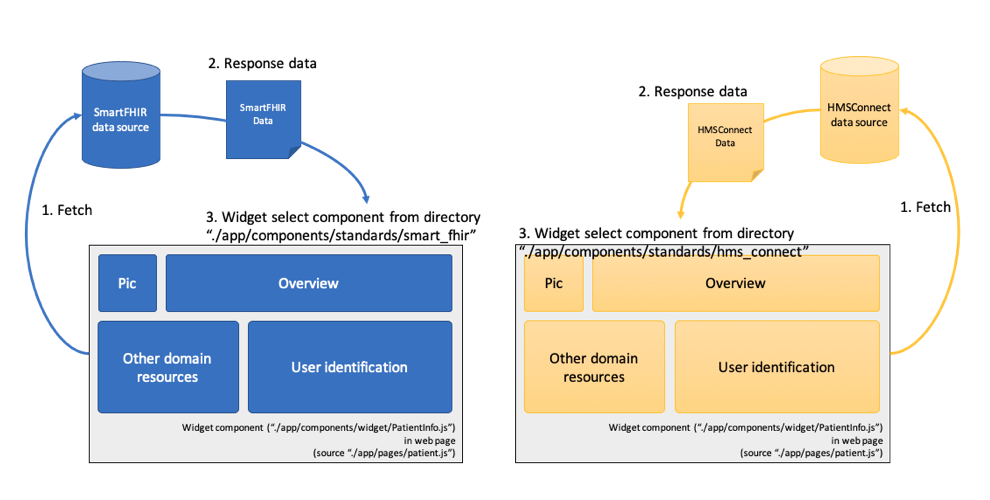
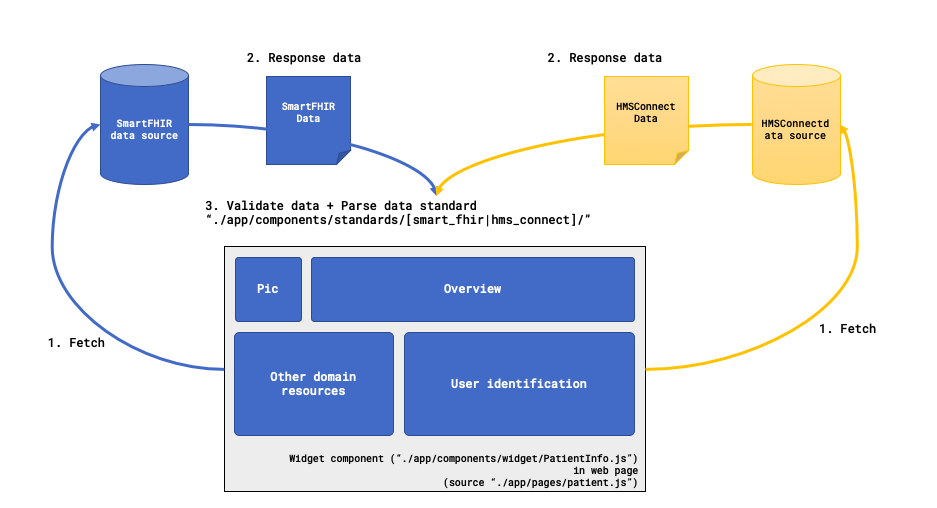
Revised detail in manual, we plan to create parser to serve specific data structure which supports SmartFHIR standard

diff --git a/docs/introduction/project_structure.md b/docs/introduction/project_structure.md
@@ -6,9 +6,10 @@
 │   │   ├── standards
 │   │   |   ├── hms_connect
 │   │   |   |   ├── ...
-│   │   |   |   └── [DOMAIN_RESOURCE_NAMEIN_LOWERCASE].json
+│   │   |   |   └── [DOMAIN_RESOURCE_NAME_IN_LOWERCASE].json
 │   │   |   ├── smart_fhir
-│   │   |   |   └── UNUSED
+│   │   |   |   ├── ...
+│   │   |   |   └── [DOMAIN_RESOURCE_NAME_IN_LOWERCASE].ndjson
 |   └── server.js             # Fake data service of HMS (simple sandbox)  
 ├── app
 │   ├── assets                # Any image files for README.md
@@ -16,7 +17,7 @@
 │   │   ├── widget            # Stateful components which are ready to use
 │   │   |   ├── ...
 │   │   |   └── [COMPONENT_NAME].js
-│   │   ├── standards         # Stateless components to support :
+│   │   ├── standards         # Stateless components or parser to support :
 │   │   |   ├── smart_fhir    # - JSON data object in SmartFHIR standard
 │   │   |   |   ├── ...
 │   │   |   |   └── [COMPONENT_NAME].js

diff --git a/docs/introduction/data_schema.md b/docs/introduction/data_schema.md
@@ -9,4 +9,4 @@ We plan to use only one data schema to be main standard. But for now, `SmartFHIR
 
 Our widget (HMSConnect standard) will detect data standard from an attribute `hn` in data schema. 
 
-?> Example: If it found the attribute in data schema, it will select sub-components which are support `HMSConnect` standard and render the data on it.
+?> **Example**: If it found the attribute in data schema, it will select parser which are support `HMSConnect` standard and render the data on it.

diff --git a/docs/widgets/sample_widget.md b/docs/widgets/sample_widget.md
@@ -2,7 +2,7 @@
 
 For `<PatientInfo/>` in previous session or our sample `widget` has 4-components inside it, including :
 
-![simple patient info component](../../assets/simple-patient-info-component.png)
+![simple patient info component](../assets/simple-patient-info-component.png)
 
 ?> **note** : any component below used component's style of `Material-UI`
 
